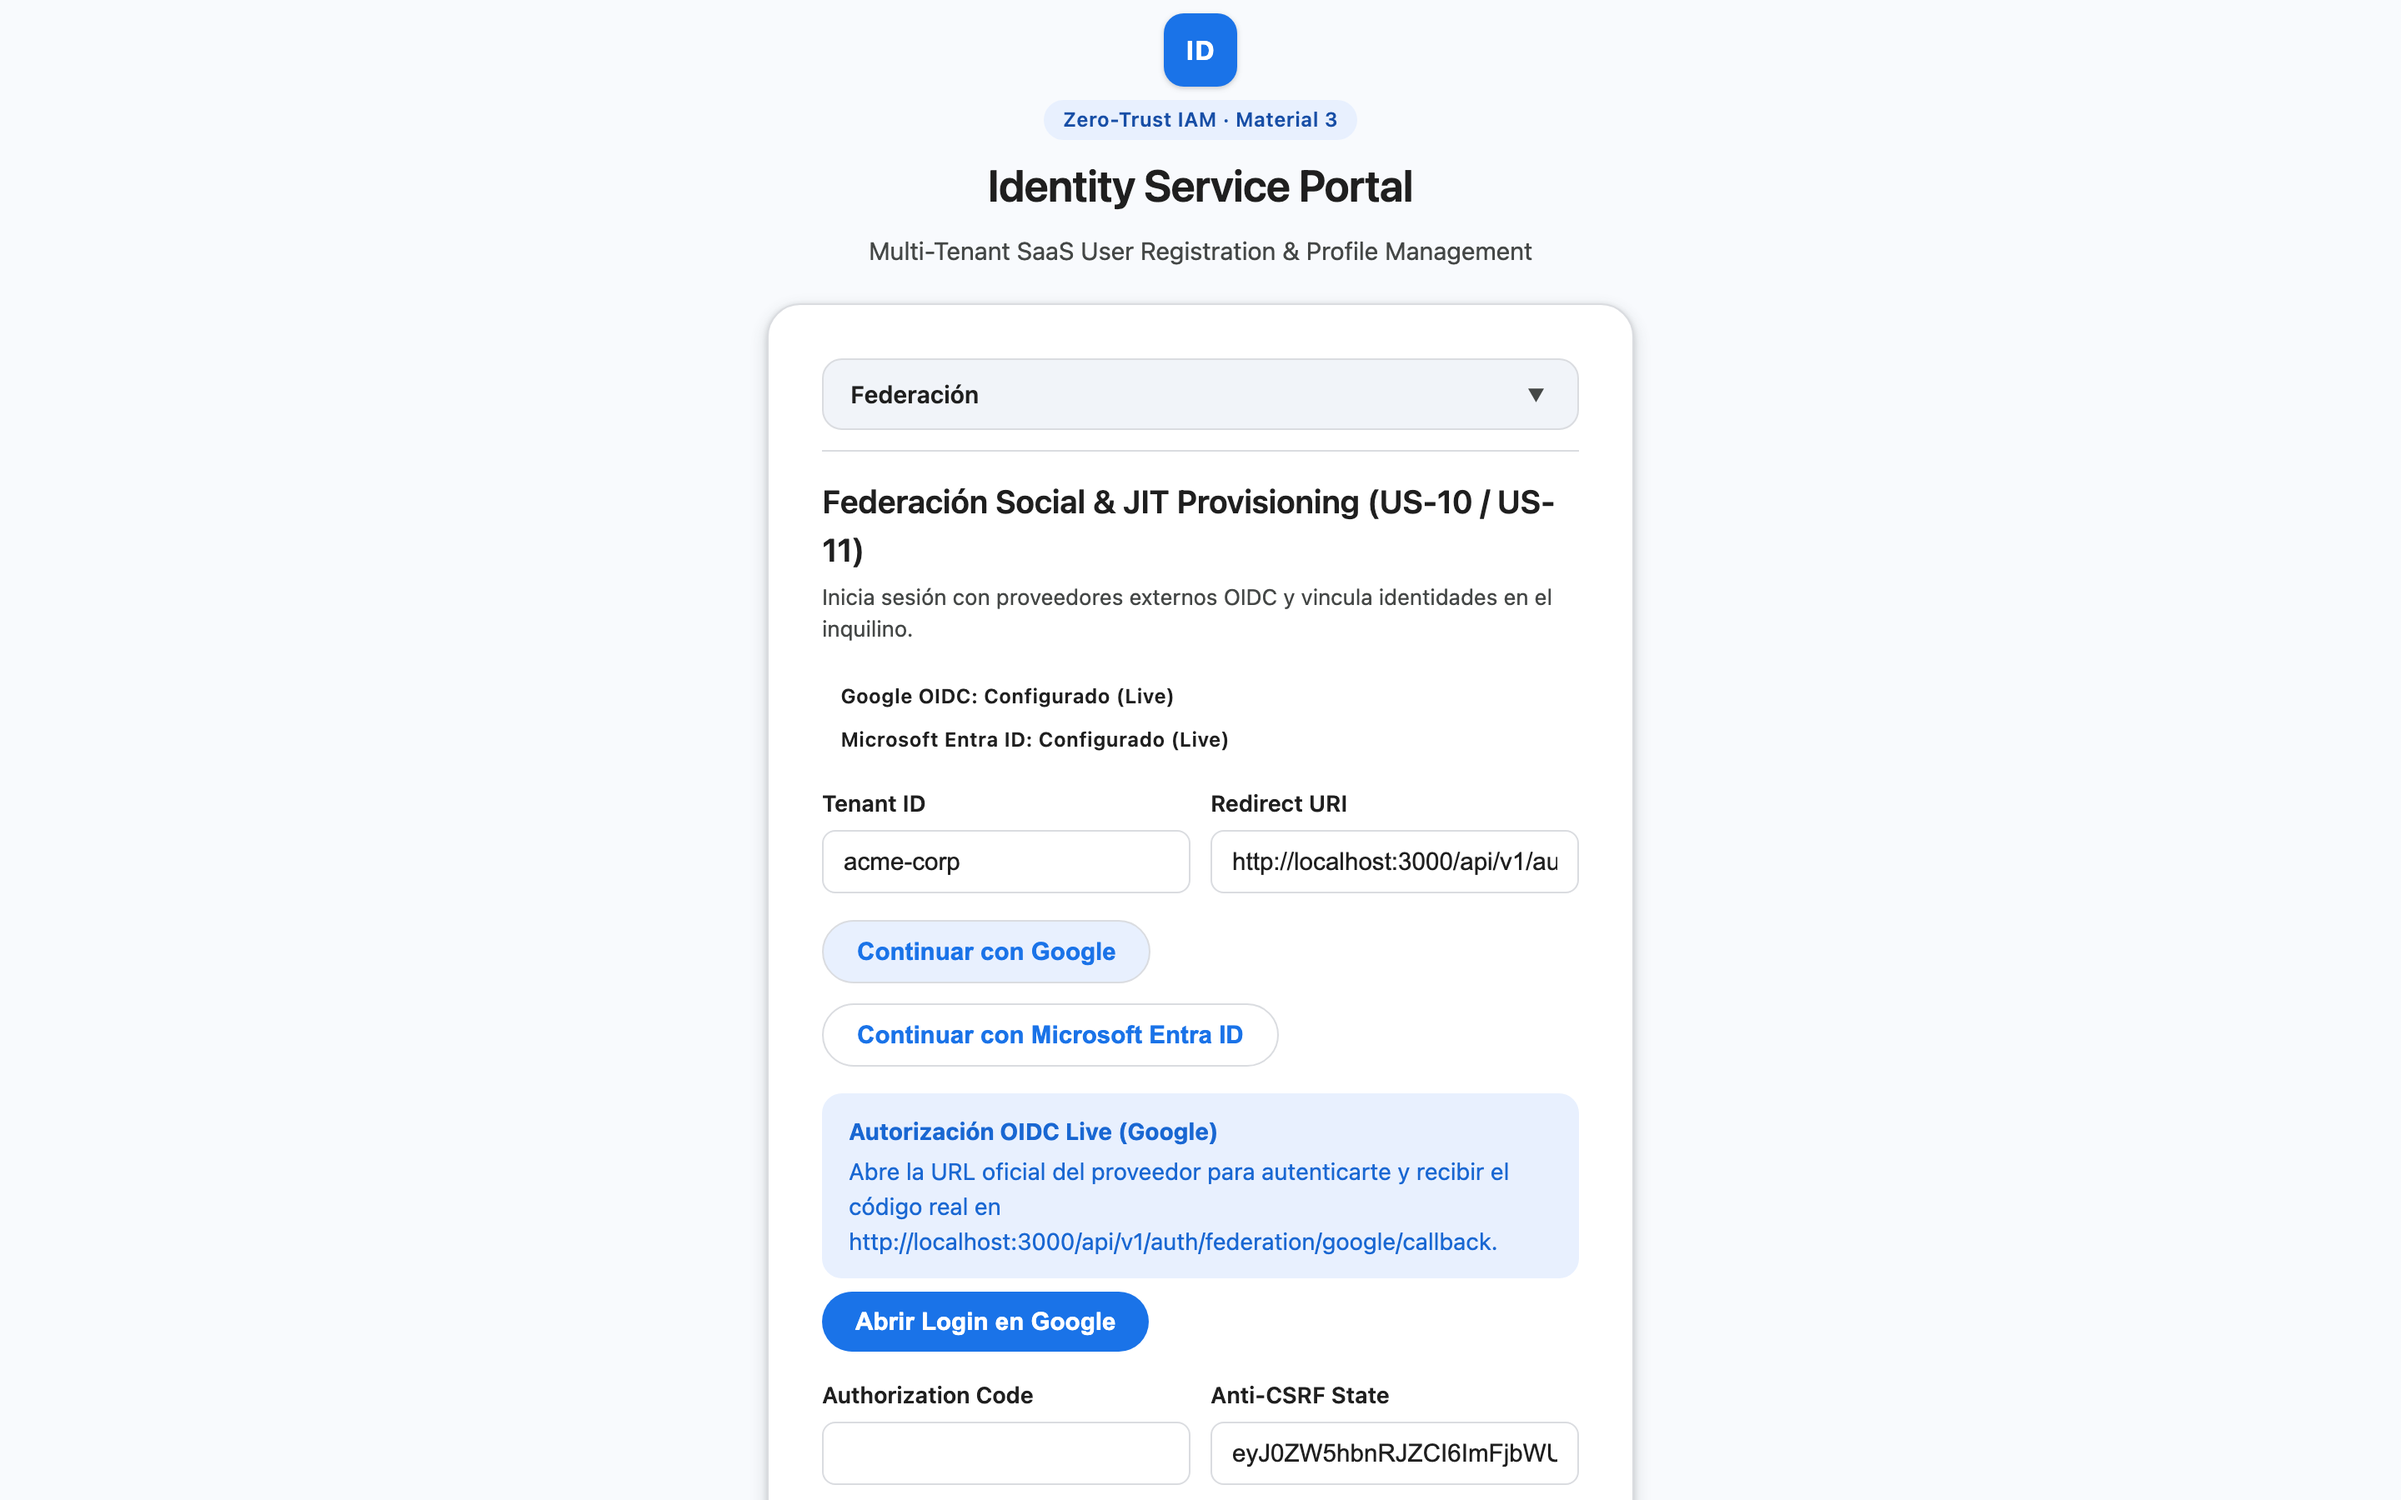
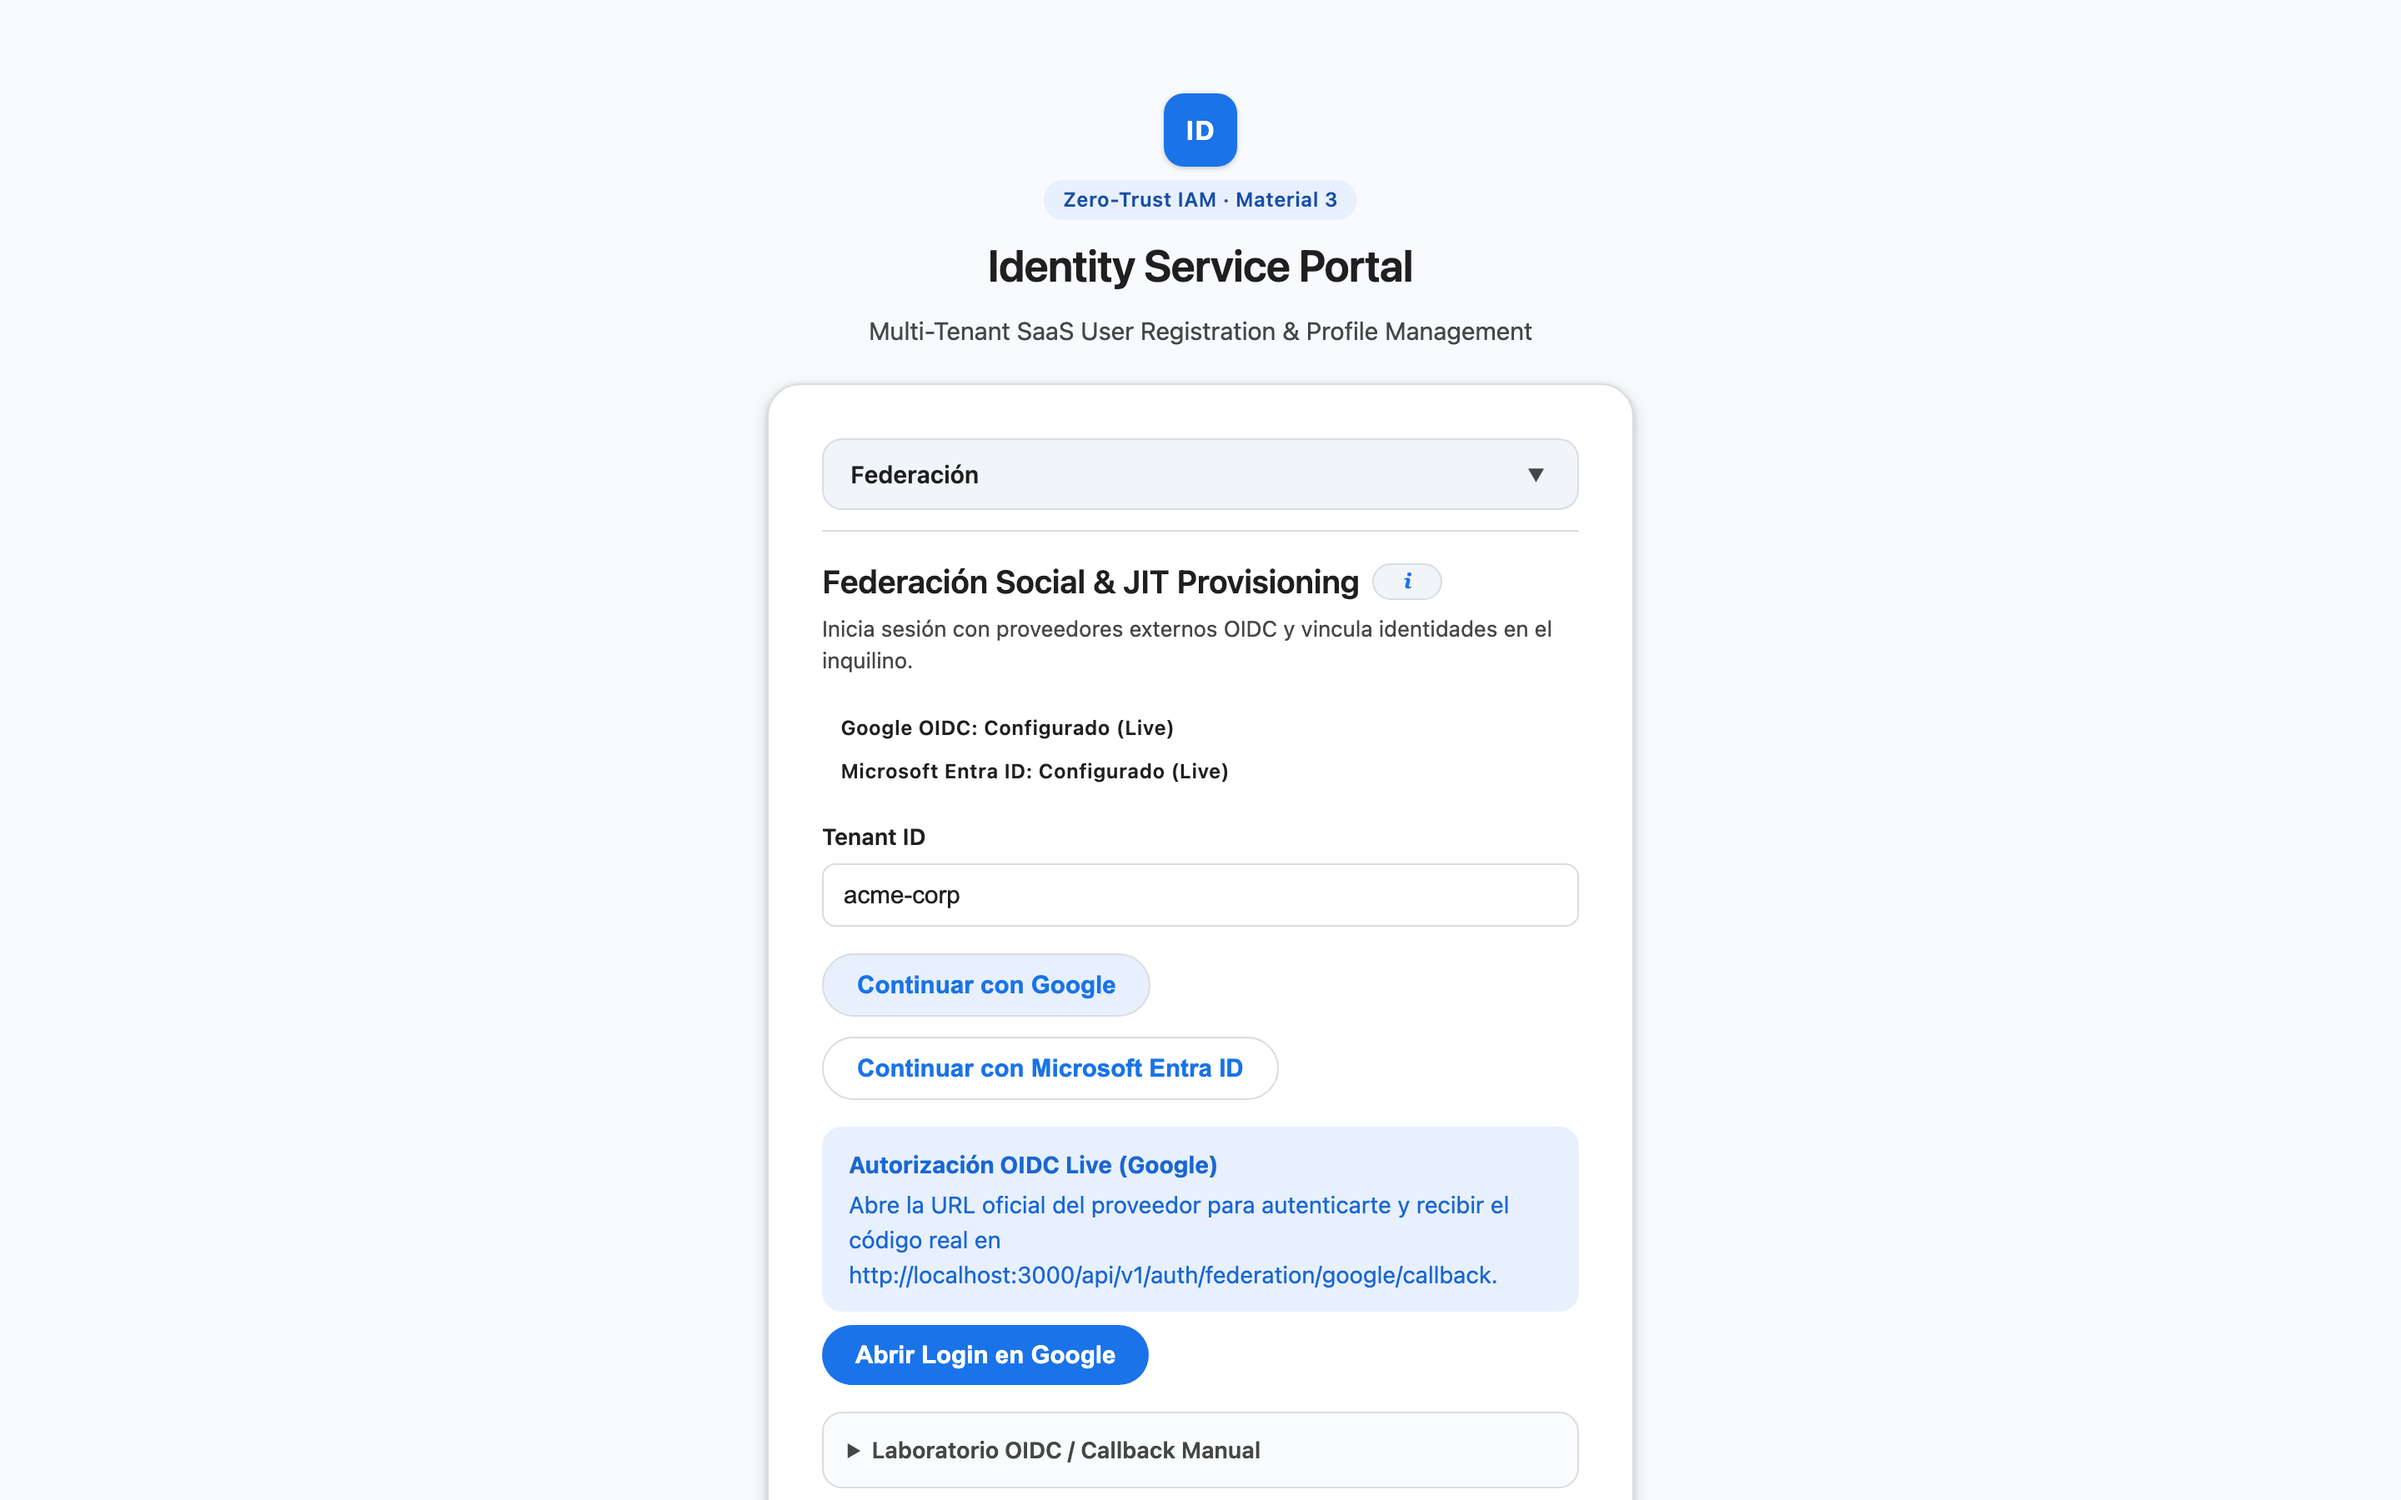
feat(web): move US-10/11 to interactive info popover and group manual OIDC lab controls

diff --git a/interfaces/web/client/contexts/auth/ui/FederationPanel.tsx b/interfaces/web/client/contexts/auth/ui/FederationPanel.tsx
@@ -80,6 +80,7 @@ export function FederationPanel({ onFederatedSession }: FederationPanelProps) {
   const [error, setError] = useState<string | null>(null);
   const [busy, setBusy] = useState(false);
   const [providerStatus, setProviderStatus] = useState<FederationStatusPayload | null>(null);
+  const [showUseCaseInfo, setShowUseCaseInfo] = useState(false);
 
   const applyFederatedPayload = (payload: FederatedCallbackResult) => {
     setResult(payload);
@@ -255,16 +256,40 @@ export function FederationPanel({ onFederatedSession }: FederationPanelProps) {
   const federatedResult =
     result && typeof result === 'object' ? (result as FederatedCallbackResult) : null;
   const activeProfile = federatedResult?.userProfile;
+  const allLiveConfigured = Boolean(
+    providerStatus?.providers.google.configured && providerStatus?.providers.microsoft.configured
+  );
 
   return (
     <div className="m3-stack">
       <div>
-        <h2 className="m3-section-title" style={{ marginBottom: '0.25rem' }}>
-          Federación Social &amp; JIT Provisioning (US-10 / US-11)
-        </h2>
+        <div className="m3-title-with-info">
+          <h2 className="m3-section-title" style={{ marginBottom: 0 }}>
+            Federación Social &amp; JIT Provisioning
+          </h2>
+          <button
+            type="button"
+            className="m3-info-btn"
+            aria-label="Información de casos de uso"
+            aria-expanded={showUseCaseInfo}
+            title="US-10: Login OIDC Externo · US-11: Account Linking & JIT Provisioning"
+            onClick={() => setShowUseCaseInfo((prev) => !prev)}
+          >
+            i
+          </button>
+        </div>
         <p className="m3-workspace-subtitle">
           Inicia sesión con proveedores externos OIDC y vincula identidades en el inquilino.
         </p>
+        {showUseCaseInfo && (
+          <div className="m3-info-popover" role="note">
+            <strong>US-10:</strong> Inicio de sesión OIDC externo (Google / Microsoft) y validación
+            Anti-CSRF (<code>state</code> / <code>nonce</code>).
+            <br />
+            <strong>US-11:</strong> Vinculación automática de cuentas (Account Linking) y
+            aprovisionamiento Just-In-Time (JIT).
+          </div>
+        )}
       </div>
 
       {providerStatus && (
@@ -298,20 +323,12 @@ export function FederationPanel({ onFederatedSession }: FederationPanelProps) {
         </div>
       )}
 
-      <div className="m3-grid-2">
-        <M3TextField
-          id="fed-tenant-id"
-          label="Tenant ID"
-          value={tenantId}
-          onChange={(e) => setTenantId(e.target.value)}
-        />
-        <M3TextField
-          id="fed-redirect-uri"
-          label="Redirect URI"
-          value={redirectUri}
-          onChange={(e) => setRedirectUri(e.target.value)}
-        />
-      </div>
+      <M3TextField
+        id="fed-tenant-id"
+        label="Tenant ID"
+        value={tenantId}
+        onChange={(e) => setTenantId(e.target.value)}
+      />
 
       <div className="m3-actions-row">
         <M3Button variant="outlined" onClick={() => handleStartLogin('google')} disabled={busy}>
@@ -342,30 +359,40 @@ export function FederationPanel({ onFederatedSession }: FederationPanelProps) {
         </div>
       )}
 
-      <div className="m3-grid-2">
-        <M3TextField
-          id="fed-code"
-          label="Authorization Code"
-          value={authCode}
-          onChange={(e) => setAuthCode(e.target.value)}
-        />
-        <M3TextField
-          id="fed-state"
-          label="Anti-CSRF State"
-          value={stateToken}
-          onChange={(e) => setStateToken(e.target.value)}
-        />
-      </div>
-
-      <div>
-        <M3Button
-          variant="filled"
-          onClick={handleProcessCallback}
-          disabled={busy || !stateToken}
-        >
-          Procesar Callback JIT ({provider})
-        </M3Button>
-      </div>
+      <details className="m3-lab-details" open={!allLiveConfigured}>
+        <summary>Laboratorio OIDC / Callback Manual</summary>
+        <div className="m3-stack" style={{ marginTop: '0.75rem' }}>
+          <M3TextField
+            id="fed-redirect-uri"
+            label="Redirect URI"
+            value={redirectUri}
+            onChange={(e) => setRedirectUri(e.target.value)}
+          />
+          <div className="m3-grid-2">
+            <M3TextField
+              id="fed-code"
+              label="Authorization Code"
+              value={authCode}
+              onChange={(e) => setAuthCode(e.target.value)}
+            />
+            <M3TextField
+              id="fed-state"
+              label="Anti-CSRF State"
+              value={stateToken}
+              onChange={(e) => setStateToken(e.target.value)}
+            />
+          </div>
+          <div>
+            <M3Button
+              variant="filled"
+              onClick={handleProcessCallback}
+              disabled={busy || !stateToken}
+            >
+              Procesar Callback JIT ({provider})
+            </M3Button>
+          </div>
+        </div>
+      </details>
 
       {error && <M3AlertBanner severity="error" title="Error de Federación" message={error} />}
 

diff --git a/interfaces/web/client/styles.css b/interfaces/web/client/styles.css
@@ -495,6 +495,62 @@ body {
   }
 }
 
+.m3-title-with-info {
+  display: flex;
+  align-items: center;
+  gap: 0.5rem;
+  margin-bottom: 0.25rem;
+}
+
+.m3-info-btn {
+  display: inline-flex;
+  align-items: center;
+  justify-content: center;
+  width: 22px;
+  height: 22px;
+  border-radius: 999px;
+  border: 1px solid var(--border);
+  background: var(--md-sys-color-surface-container-low, #f1f4f9);
+  color: var(--primary);
+  font-size: 0.78rem;
+  font-weight: 700;
+  font-style: italic;
+  font-family: Georgia, serif;
+  cursor: pointer;
+  flex-shrink: 0;
+  transition: background-color 0.15s ease;
+}
+
+.m3-info-btn:hover {
+  background: var(--md-sys-color-primary-container, #e8f0fe);
+}
+
+.m3-info-popover {
+  margin-top: 0.5rem;
+  padding: 0.65rem 0.85rem;
+  font-size: 0.82rem;
+  line-height: 1.45;
+  color: var(--md-sys-color-on-surface, #1f1f1f);
+  background: var(--md-sys-color-surface-container-low, #f1f4f9);
+  border: 1px solid var(--border);
+  border-radius: 12px;
+}
+
+.m3-lab-details {
+  border: 1px solid var(--border);
+  border-radius: 12px;
+  padding: 0.75rem 0.9rem;
+  background: var(--md-sys-color-surface-container-lowest, #fafbfd);
+}
+
+.m3-lab-details summary {
+  font-size: 0.85rem;
+  font-weight: 600;
+  color: var(--text-muted);
+  cursor: pointer;
+  user-select: none;
+}
+
 form {
   display: flex;
   flex-direction: column;
